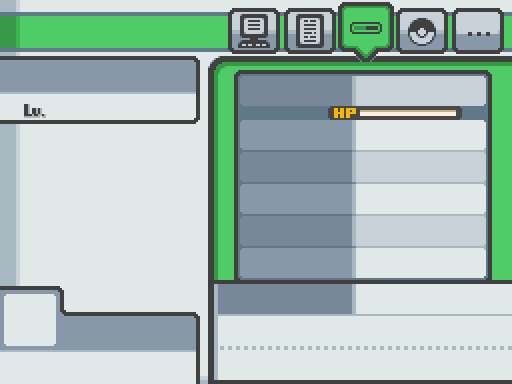
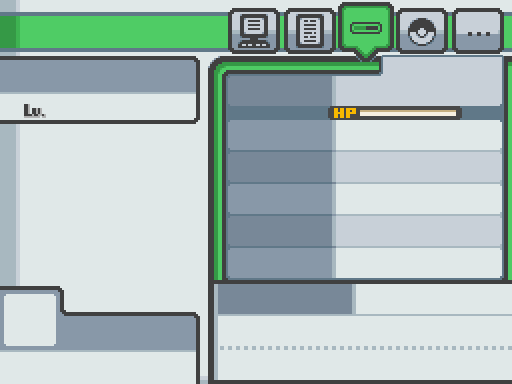
adds base stats to stat summary screen

diff --git a/Data/Scripts/016_UI/006_UI_Summary.rb b/Data/Scripts/016_UI/006_UI_Summary.rb
@@ -772,18 +772,21 @@ class PokemonSummary_Scene
       when 5
         y = 242
       end
+      base_stat = @pokemon.baseStats[stats[i]]
       ev_stat = ($PokemonSystem.noevsmode && $PokemonSystem.noevsmode > 0) ? 0 : @pokemon.ev[stats[i]]
       iv_stat = ($PokemonSystem.maxivsmode && $PokemonSystem.maxivsmode > 0) ? Pokemon::IV_STAT_LIMIT : @pokemon.iv[stats[i]]
       textpos += [
-        [stats_displayname[i], 248, y, 0, base, statshadows[stats[i]]],
-        [sprintf("%d", @pokemon.send(stats_value[i].downcase)), 400, y, 1, Color.new(64, 64, 64), Color.new(176, 176, 176)],
-        [sprintf("%d", iv_stat), 440, y, 1, Color.new(84, 64, 44), Color.new(248, 148, 0)],
-        [sprintf("%d", ev_stat), 480, y, 1, Color.new(54, 84, 54), Color.new(24, 192, 32)]
+        [stats_displayname[i], 236, y, 0, base, statshadows[stats[i]]],
+        [sprintf("%d", @pokemon.send(stats_value[i].downcase)), 380, y, 1, Color.new(64, 64, 64), Color.new(176, 176, 176)],
+        [sprintf("%d", iv_stat), 420, y, 1, Color.new(84, 64, 44), Color.new(248, 148, 0)],
+        [sprintf("%d", ev_stat), 460, y, 1, Color.new(54, 84, 54), Color.new(24, 192, 32)],
+        [sprintf("%d", base_stat), 500, y, 1, Color.new(36, 60, 80), Color.new(88, 152, 248)]
       ]
       if i == 0 # If the stat is HP
-        textpos << [sprintf("%d", @pokemon.hp), 346, y, 1, base, shadow]
-        textpos << ["IVs", 440, y-23, 1, Color.new(64, 44, 24), Color.new(228, 128, 0)]
-        textpos << ["EVs", 480, y-23, 1, Color.new(34, 64, 34), Color.new(4, 172, 12)]
+        textpos << [sprintf("%d", @pokemon.hp), 326, y, 1, base, shadow]
+        textpos << ["IVs", 420, y-23, 1, Color.new(64, 44, 24), Color.new(228, 128, 0)]
+        textpos << ["EVs", 460, y-23, 1, Color.new(34, 64, 34), Color.new(4, 172, 12)]
+        textpos << ["BST", 500, y-23, 1, Color.new(36, 60, 80), Color.new(88, 152, 248)]
       end
     end
     
